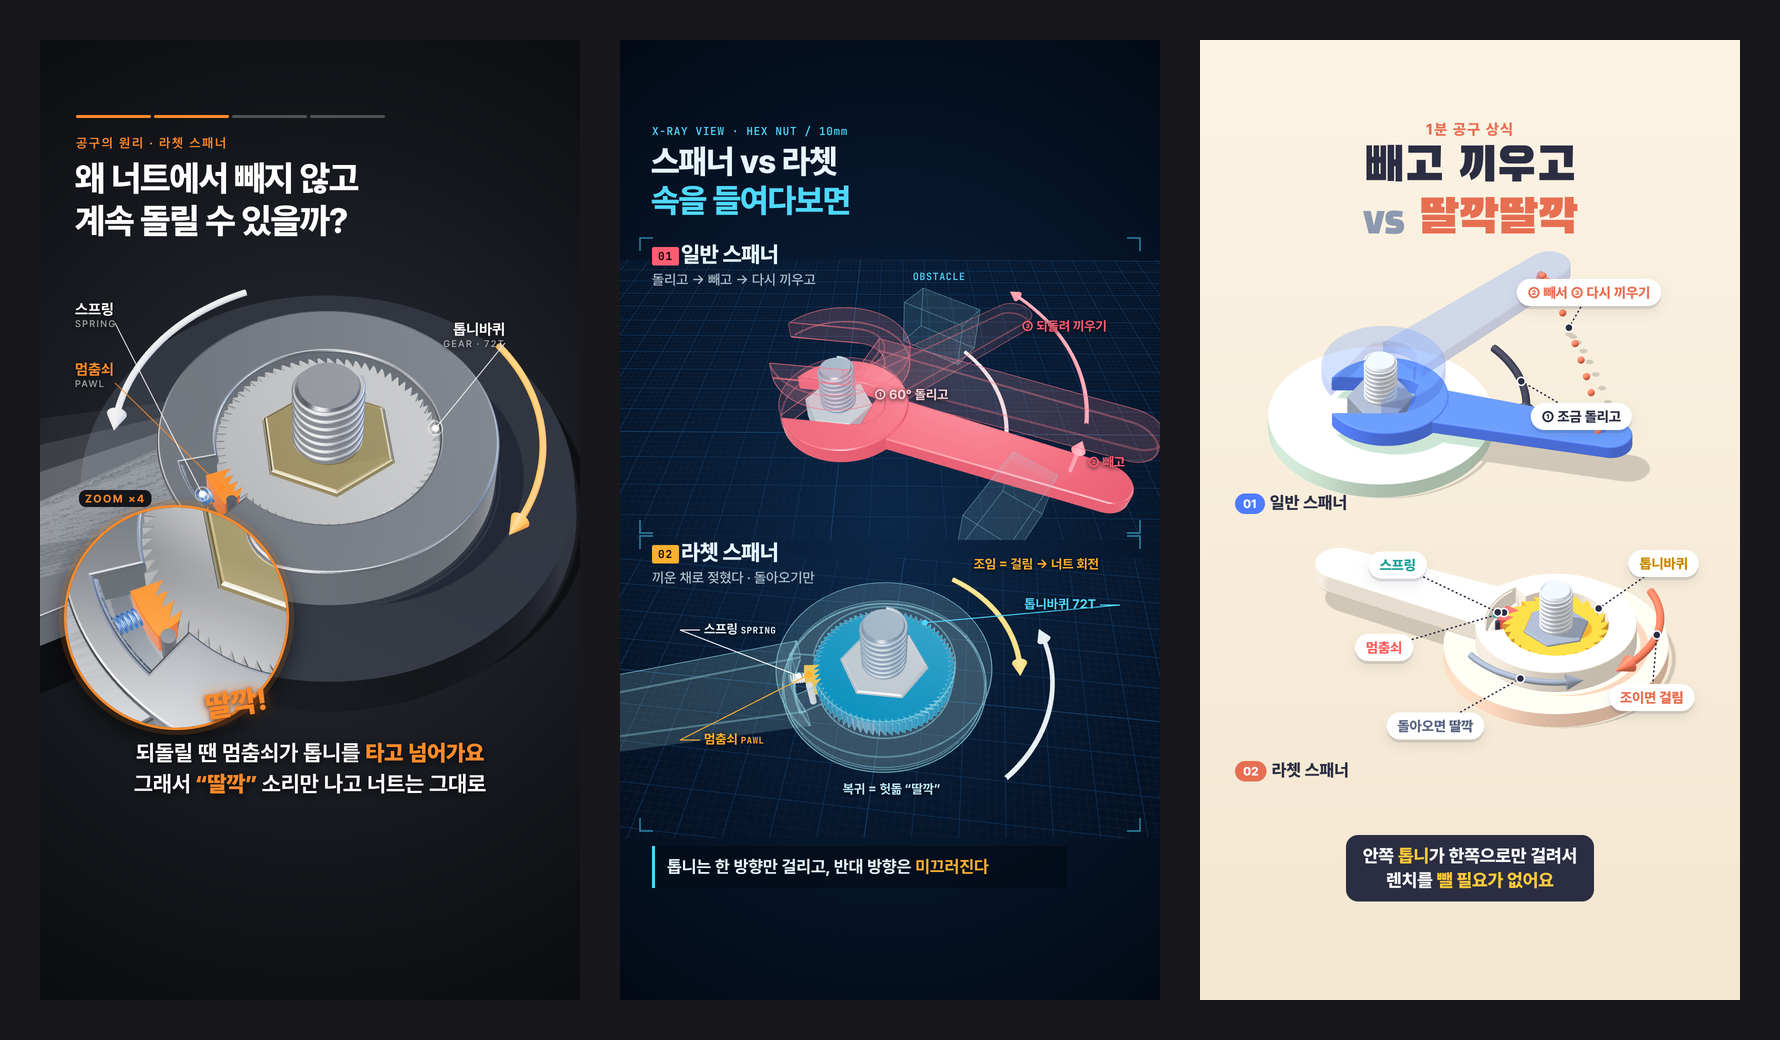
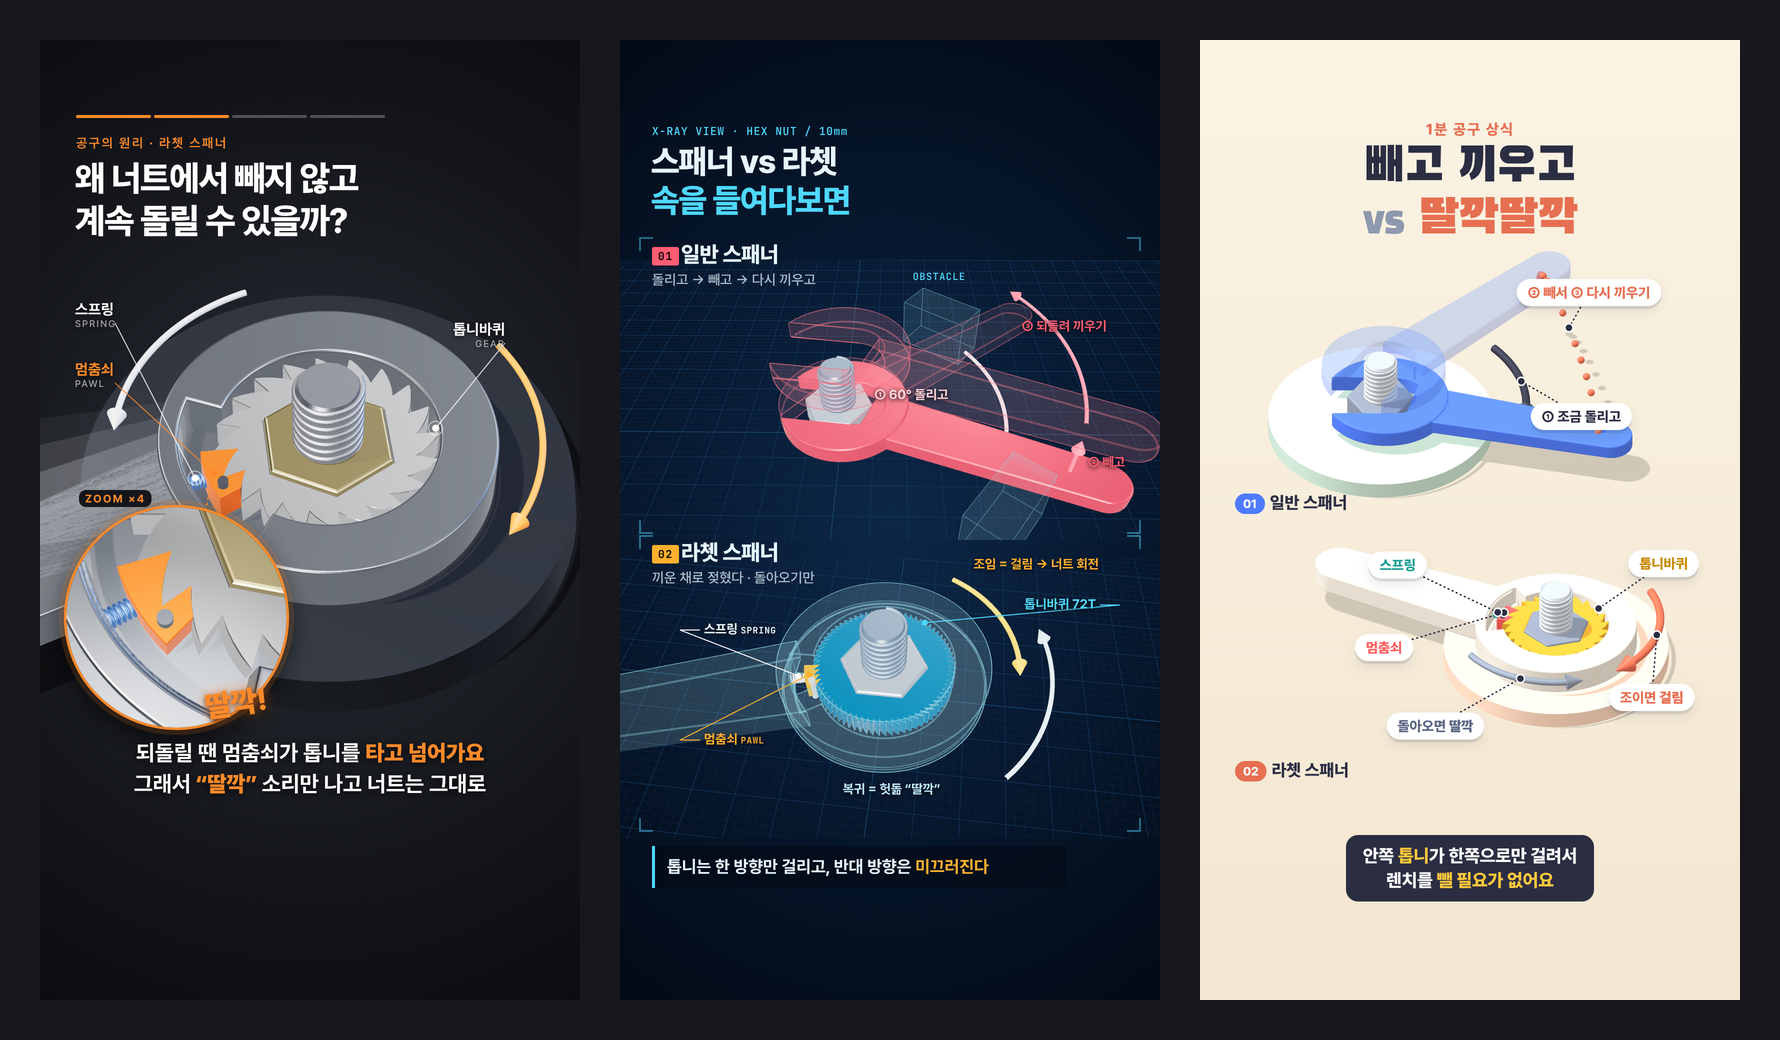
Mockup 1: fewer, larger ratchet teeth so the pawl engagement reads clearly
Gear goes from 72 fine teeth to 20 deep ones with a 2-tooth pawl; the
pawl pivot pin now sits inside the pawl body; zoom inset reframed.

Claude-Session: https://claude.ai/code/session_01DsCoKnWWbtCL76aVXZRNFh

diff --git a/hex-nut-wrench-shorts/mockups/d1-studio-metal.html b/hex-nut-wrench-shorts/mockups/d1-studio-metal.html
@@ -59,7 +59,7 @@ floor.position.z = -0.74; floor.receiveShadow = true; frame.add(floor);
 frame.add(S.bolt(steel, { len: 2.9, z0: -1.2 }));
 const nut = S.nut(zinc, { h: 0.82 }); nut.position.z = -0.12; frame.add(nut);
 // ratchet
-const R = S.ratchet(M, { T, n: 72, handleLen: 9, toothDepth: 0.15 }); frame.add(R);
+const R = S.ratchet(M, { T, n: 20, handleLen: 9, toothDepth: 0.34, pawlTeeth: 2 }); frame.add(R);
 // motion trail: handle ghosts where the tool came from (it is swinging back, counter-clockwise)
 for (const [k, op] of [[1, 0.30], [2, 0.17], [3, 0.08]]) {
   const gm = new THREE.MeshBasicMaterial({ color: 0xcfd8e6, transparent: true, opacity: op * 0.8, depthWrite: false });
@@ -87,7 +87,7 @@ renderer.render(scene, cam);
 // magnifier inset on the pawl: render it first into a corner of the same GL canvas, copy it out
 const zc = new THREE.PerspectiveCamera(26, 1, 0.05, 100);
 const pw = S.worldOf(R, R.userData.anchors.pawl);
-zc.position.copy(pw).add(new THREE.Vector3(0.9, 4.4, 1.6)); zc.lookAt(pw.clone().add(new THREE.Vector3(0.25, -0.1, -0.05))); zc.updateMatrixWorld();
+zc.position.copy(pw).add(new THREE.Vector3(0.55, 4.2, 1.3)); zc.lookAt(pw.clone().add(new THREE.Vector3(0.3, -0.15, 0.05))); zc.updateMatrixWorld();
 renderer.setScissorTest(true); renderer.setViewport(0, 0, 440, 440); renderer.setScissor(0, 0, 440, 440);
 renderer.setClearColor(0x1a1d22, 1); renderer.render(scene, zc);
 document.getElementById('z').getContext('2d').drawImage(renderer.domElement, 0, H - 440, 440, 440, 0, 0, 440, 440);
@@ -99,7 +99,7 @@ const sp = v => S.toScreen(S.worldOf(R, v), cam, W, H);
 const items = [
   { p: sp(A.pawl), to: [150, 640], text: '멈춤쇠', en: 'PAWL', color: '#ff8a2a', align: 'left' },
   { p: sp(A.spring), to: [150, 520], text: '스프링', en: 'SPRING', color: '#fff', align: 'left' },
-  { p: sp(A.gear(T + 200)), to: [930, 560], text: '톱니바퀴', en: 'GEAR · 72T', color: '#fff', align: 'right' },
+  { p: sp(A.gear(T + 200)), to: [930, 560], text: '톱니바퀴', en: 'GEAR', color: '#fff', align: 'right' },
 ];
 let svg = '';
 for (const it of items) {

diff --git a/hex-nut-wrench-shorts/mockups/scene3d.js b/hex-nut-wrench-shorts/mockups/scene3d.js
@@ -125,7 +125,7 @@ export function ratchet(M, o = {}) {
   const gm = add('gear', new THREE.Mesh(extrude(gs, gh - 0.02, 0.01, 1), M.gear)); gm.position.z = floor + 0.01;
   // pawl + pivot pin
   const pm = add('pawl', new THREE.Mesh(extrude(shape(pw.pts), gh - 0.02, 0.01, 1), M.pawl)); pm.position.z = floor + 0.01;
-  const pivotA = pw.A0 - s * 0.6, pv = P((rt + rOut) / 2 + 0.05, pivotA);
+  const pivotA = pw.A0 + s * 0.3, pv = P(rOut - 0.14, pivotA);
   const pin = add('pin', new THREE.Mesh(new THREE.CylinderGeometry(0.075, 0.075, H, 24), M.pin));
   pin.rotation.x = Math.PI / 2; pin.position.set(pv.x, pv.y, H / 2);
   // coil spring pressing the pawl inward

diff --git a/hex-nut-wrench-shorts/mockups/README.md b/hex-nut-wrench-shorts/mockups/README.md
@@ -6,7 +6,7 @@
 
 | 파일 | 콘셉트 |
 | --- | --- |
-| `d1-studio-metal.png` | 스튜디오 메탈 시네마틱 — 크롬 질감, 단면 클로즈업 + 원형 확대 인셋, 주황 강조 |
+| `d1-studio-metal.png` | 스튜디오 메탈 시네마틱 — 크롬 질감, 단면 클로즈업 + 원형 확대 인셋, 주황 강조 (톱니 20개로 큼직하게 표현) |
 | `d2-xray-split.png` | 엑스레이 투시 · 상하 분할 — 위: 일반 스패너(돌리고·빼고·끼우고), 아래: 반투명 라쳇 내부 |
 | `d3-clay-iso.png` | 클레이 아이소메트릭 — 밝은 파스텔 무광 질감, 두 공구를 한 화면에 비교 |
 | `overview.png` | 세 시안 비교용 모음 |
